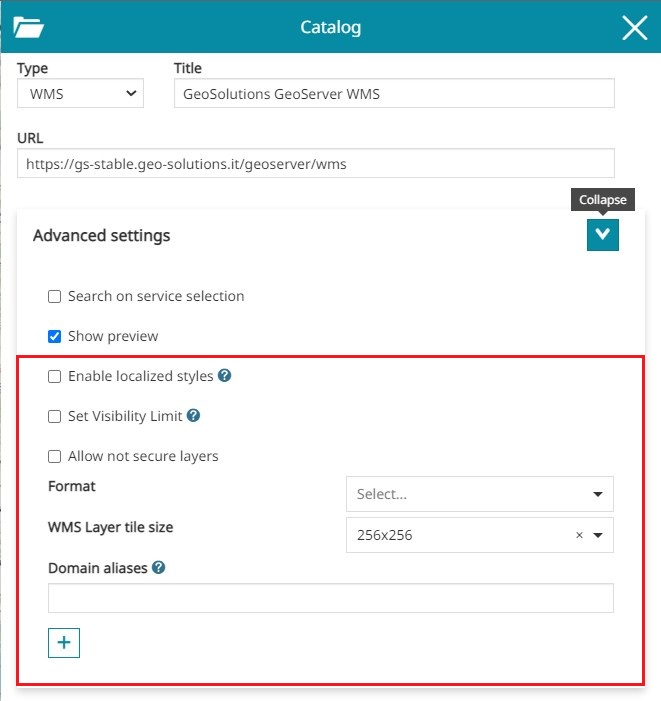
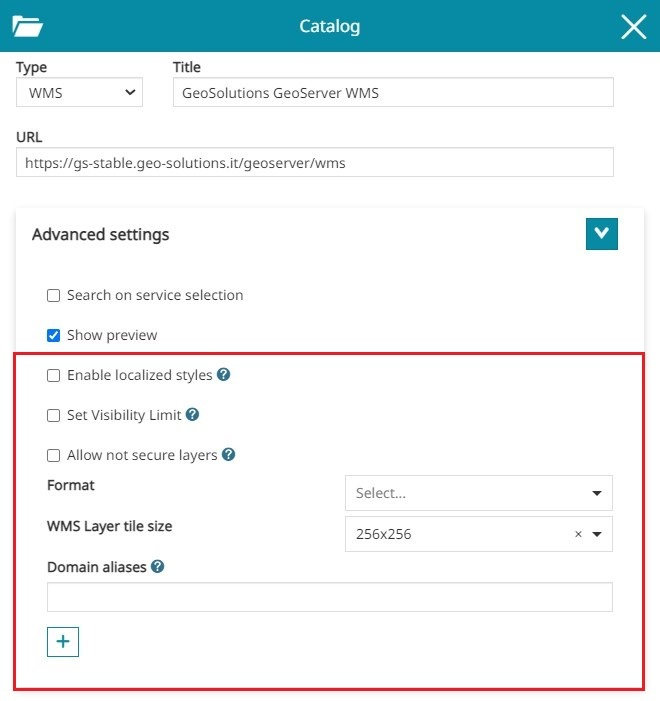
Added tooltip to unsecure option

diff --git a/web/client/components/catalog/editor/AdvancedSettings/CommonAdvancedSettings.jsx b/web/client/components/catalog/editor/AdvancedSettings/CommonAdvancedSettings.jsx
@@ -10,6 +10,7 @@ import { isNil } from 'lodash';
 import { FormGroup, Checkbox, Col } from "react-bootstrap";
 
 import Message from "../../../I18N/Message";
+import InfoPopover from '../../../widgets/widget/InfoPopover';
 
 /**
  * Common Advanced settings form WMS/CSW/WMTS/WFS
@@ -48,7 +49,7 @@ export default ({
                     <Checkbox
                         onChange={(e) => onChangeServiceProperty("allowUnsecureLayers", e.target.checked)}
                         checked={!isNil(service.allowUnsecureLayers) ? service.allowUnsecureLayers : false}>
-                        <Message msgId="catalog.allowUnsecureLayers" />
+                        <Message msgId="catalog.allowUnsecureLayers.label" />&nbsp;<InfoPopover text={<Message msgId="catalog.allowUnsecureLayers.tooltip" />} />
                     </Checkbox>
                 </Col>
             </FormGroup>}

diff --git a/web/client/components/catalog/editor/AdvancedSettings/__tests__/RasterAdvancedSettings-test.js b/web/client/components/catalog/editor/AdvancedSettings/__tests__/RasterAdvancedSettings-test.js
@@ -192,7 +192,7 @@ describe('Test Raster advanced settings', () => {
         expect(advancedSettingsPanel).toBeTruthy();
         const allowUnsecureLayers = document.querySelectorAll('input[type="checkbox"]')[2];
         const formGroup = document.querySelectorAll('.form-group')[3];
-        expect(formGroup.textContent.trim()).toBe('catalog.allowUnsecureLayers');
+        expect(formGroup.textContent.trim()).toBe('catalog.allowUnsecureLayers.label');
         expect(allowUnsecureLayers).toExist();
         TestUtils.Simulate.change(allowUnsecureLayers, { "target": { "checked": true }});
         expect(spyOn).toHaveBeenCalled();

diff --git a/web/client/components/catalog/editor/AdvancedSettings/__tests__/CommonAdvancedSettings-test.js b/web/client/components/catalog/editor/AdvancedSettings/__tests__/CommonAdvancedSettings-test.js
@@ -74,7 +74,7 @@ describe('Test common advanced settings', () => {
         expect(advancedSettingsPanel).toBeTruthy();
         const allowUnsecureLayers = document.querySelectorAll('input[type="checkbox"]')[1];
         const formGroup = document.querySelectorAll('.form-group')[2];
-        expect(formGroup.textContent.trim()).toBe('catalog.allowUnsecureLayers');
+        expect(formGroup.textContent.trim()).toBe('catalog.allowUnsecureLayers.label');
         expect(allowUnsecureLayers).toExist();
         TestUtils.Simulate.change(allowUnsecureLayers, { "target": { "checked": true }});
         expect(spyOn).toHaveBeenCalled();

diff --git a/web/client/components/catalog/editor/AdvancedSettings/RasterAdvancedSettings.js b/web/client/components/catalog/editor/AdvancedSettings/RasterAdvancedSettings.js
@@ -96,7 +96,7 @@ export default ({
                 <Checkbox
                     onChange={(e) => onChangeServiceProperty("allowUnsecureLayers", e.target.checked)}
                     checked={!isNil(service.allowUnsecureLayers) ? service.allowUnsecureLayers : false}>
-                    <Message msgId="catalog.allowUnsecureLayers" />
+                    <Message msgId="catalog.allowUnsecureLayers.label" />&nbsp;<InfoPopover text={<Message msgId="catalog.allowUnsecureLayers.tooltip" />} />
                 </Checkbox>
             </Col>
         </FormGroup>}
